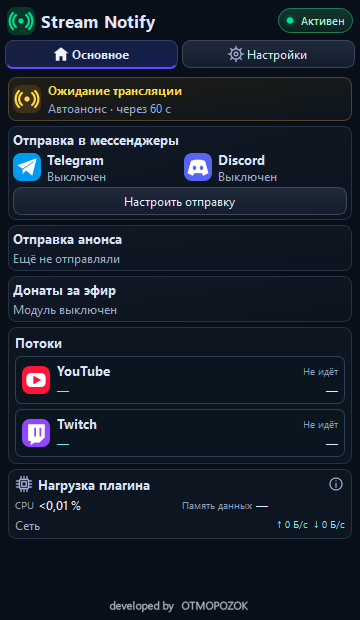
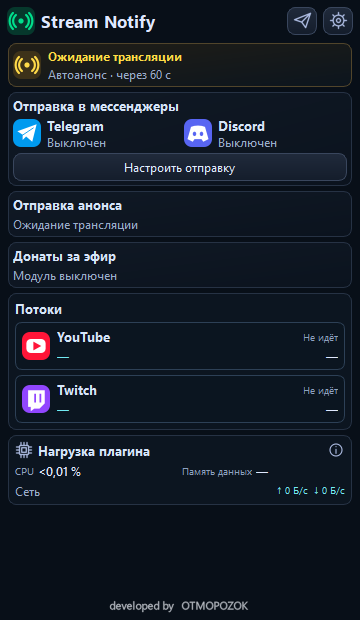
Refresh compact UI gallery and manual composer preview [skip ci]

Changed region(s): [[0.0, 0.0, 1.0, 0.8581], [0.4889, 0.7968, 0.7028, 0.8274], [0.7639, 0.8274, 0.8556, 0.8581]]

diff --git a/README.md b/README.md
@@ -61,7 +61,7 @@
 </table>
 
 <details>
-<summary><b>Подключения, редактор анонса и результат отправки</b></summary>
+<summary><b>Подключения, ручное сообщение, редактор анонса и результат отправки</b></summary>
 
 <table>
 <tr>
@@ -69,6 +69,7 @@
 <td align="center" valign="top"><b>Текст анонса</b><br><a href="docs/screenshots/message.png"><img src="docs/screenshots/message.png" width="300" alt="Текст анонса — Stream Notify"></a><br>Редактор сообщения, задержка и предпросмотр.</td>
 </tr>
 <tr>
+<td align="center" valign="top"><b>Ручное сообщение</b><br><a href="docs/screenshots/manual-message.png"><img src="docs/screenshots/manual-message.png" width="300" alt="Ручное сообщение в Telegram и Discord — Stream Notify"></a><br>Отдельная страница с текстом, выбором каналов и переключателем @everyone.</td>
 <td align="center" valign="top"><b>Результат доставки</b><br><a href="docs/screenshots/result.png"><img src="docs/screenshots/result.png" width="300" alt="Результат доставки — Stream Notify"></a><br>Отдельный статус каждого канала и возврат к основной панели.</td>
 </tr>
 </table>
@@ -97,7 +98,7 @@
 
 Снимки получены из реально запущенного Qt-интерфейса. Главная обновлена по последней сборке. В окне используются тестовые выходы и демонстрационные адреса, без настоящих ключей и webhook. Показатели потоков и донаты на снимках заданы тестовыми событиями для демонстрации интерфейса; значения ресурсов измерены в тестовом окне и не являются оценкой нагрузки на вашем ПК.
 Экран успешной доставки показан на демонстрационных данных.
-[Полный набор снимков для разных размеров дока](https://github.com/DIMI0007/stream-notify/actions/runs/40127819775/artifacts/12574275164).
+[Полный набор снимков для разных размеров дока](https://github.com/DIMI0007/stream-notify/actions/runs/40171551955/artifacts/12590317512).
 
 
 <details>
